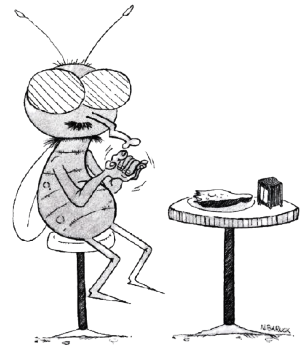
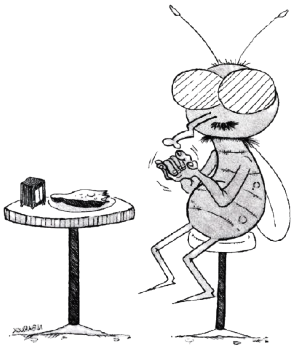
Add files via upload

diff --git a/src/App.jsx b/src/App.jsx
@@ -1,4 +1,4 @@
-import { useState } from 'react'
+import { useState, useEffect } from 'react'
 import heroImg from './assets/hero.png'
 import reactLogo from './assets/react.svg'
 import viteLogo from './assets/vite.svg'
@@ -7,78 +7,104 @@ import './App.css'
 function App() {
   const [count, setCount] = useState(0)
 
+  // Lista de imágenes base
+  const monosImages = [
+    '/images/dibujos/taika.png',
+    '/images/dibujos/zorro.png',
+    '/images/dibujos/nepo3.png',
+  ]
+
+  // Duplicamos la primera imagen al final para hacer el loop
+  const extendedMonosImages = [...monosImages, monosImages[0]]
+
+  const [currentMonoIndex, setCurrentMonoIndex] = useState(0)
+  const [isTransitioning, setIsTransitioning] = useState(true)
+
+  // Transición del carrusel con loop infinito
+  useEffect(() => {
+    const interval = setInterval(() => {
+      setIsTransitioning(true)
+      setCurrentMonoIndex((prevIndex) => prevIndex + 1)
+    }, 4000)
+
+    return () => clearInterval(interval)
+  }, [])
+
+  // Al terminar la animación hacia la imagen clonada, reseteamos a la 0 sin transición
+  const handleTransitionEnd = () => {
+    if (currentMonoIndex === monosImages.length) {
+      setIsTransitioning(false)
+      setCurrentMonoIndex(0)
+    }
+  }
+
   return (
-    <div className="min-h-screen bg-stone-300  text-black flex flex-col items-center p-3">
-      <section className=' w-full flex mt-4 '>
-        <div className='w-8/12 my-auto  '>
+    <div className="min-h-screen bg-stone-300 text-black flex flex-col items-center p-3">
+      <section className='w-full flex mt-4'>
+        <div className='w-8/12 my-auto'>
           <h1 className="text-6xl font-bold">
             <span className="inline-block scale-y-150 origin-bottom">_oblea_</span>
           </h1>
           <p className='text-sm mt-6 font-bold text-justify w-10/12 inline-block uppercase scale-y-200 origin-bottom'>Monero ermitaño tapatío</p>
-          <p className='text-sm  w-11/12 text-justify'>- Animador profesional</p>
-          <p className='text-sm  w-full '>- Residente en: <span className="text-azuloblea font-semibold">Casa del Autor de ZPN</span></p>
-          <p className='text-sm  w-11/12 text-justify'>- Fanzines, Prints, Stickers y más</p>
+          <p className='text-sm w-11/12 text-justify'>- Animador profesional</p>
+          <p className='text-sm w-full'>- Residente en: <span className="text-azuloblea font-semibold">Casa del Autor de ZPN</span></p>
+          <p className='text-sm w-11/12 text-justify'>- Fanzines, Prints, Stickers y más</p>
         </div>
-        <div className='mx-auto '>
+        <div className='mx-auto'>
           <div className='mb-1 flex justify-around w-11/12 mx-auto'>
             <img src="/images/icons/arroba.png" alt="" className='w-6' />
             <a href="https://www.instagram.com/_oblea_/"><img src="/images/icons/instagram.png" alt="" className='w-6' /></a>
             <img src="/images/icons/whatsapp.png" alt="" className='w-6' />
-
           </div>
 
-
-
-
-          <div className='border-2 border-black/50 rounded-xl p-2 '>
+          <div className='border-2 border-black/50 rounded-xl p-2'>
             <img src="/images/dibujos/nbaruck.png" alt="" className='h-36 mx-auto' />
           </div>
         </div>
       </section>
 
-
-
-
-      <section className=' w-full mt-3'>
-        <div class="grid grid-cols-3 gap-2 ">
-          <div className='col-span-2  border-2 border-black/50 rounded-xl px-2 font-semibold'>
-
+      <section className='w-full mt-3'>
+        <div className="grid grid-cols-3 gap-2">
+          <div className='col-span-2 border-2 border-black/50 rounded-xl px-2 font-semibold'>
             <h3 className='mb-2 text-sm'>Garabatos Mafufos</h3>
             <img src="/images/dibujos/fondo1.png" alt="" className='h-52 mx-auto' />
           </div>
 
-          <div className='border-2 border-black/50 rounded-xl px-2 font-semibold'>
-
+          {/* Carrusel con deslizamiento infinito */}
+          <div className='border-2 border-black/50 rounded-xl px-2 font-semibold overflow-hidden flex flex-col'>
             <h3 className='mb-2 text-sm'>Monos</h3>
-            <img src="/images/dibujos/taika.png" alt="" className='h-52 mx-auto' />
-            <p className='text-xs font-normal text-center'>Taika</p>
+            
+            <div className='relative h-52 w-full overflow-hidden my-auto'>
+              <div 
+                onTransitionEnd={handleTransitionEnd}
+                className={`flex h-full w-full ${
+                  isTransitioning ? 'transition-transform duration-1000 ease-in-out' : ''
+                }`}
+                style={{ transform: `translateX(-${currentMonoIndex * 100}%)` }}
+              >
+                {extendedMonosImages.map((src, index) => (
+                  <div key={index} className='w-full h-full shrink-0 flex items-center justify-center'>
+                    <img
+                      src={src}
+                      alt={`Mono ${(index % monosImages.length) + 1}`}
+                      className='h-52 mx-auto object-contain'
+                    />
+                  </div>
+                ))}
+              </div>
+            </div>
           </div>
-
-
-
-
-
         </div>
-
-
-
-
-
 
         <div className='grid grid-cols-1 mt-2'>
-          <div className='border-2 border-black/50 rounded-xl p-2 font-semibold'>
-
+          <div className='border-2 border-black/50 rounded-xl p-2 font-semibold flex'>
             <img src="/images/dibujos/nepo1.png" alt="" className='h-52 w-6/12 mx-auto' />
+            <img src="/images/dibujos/mosca.png" alt="" className='w-40'/>
           </div>
-
         </div>
-
       </section>
-
-
     </div>
   );
-
 }
 
 export default App
